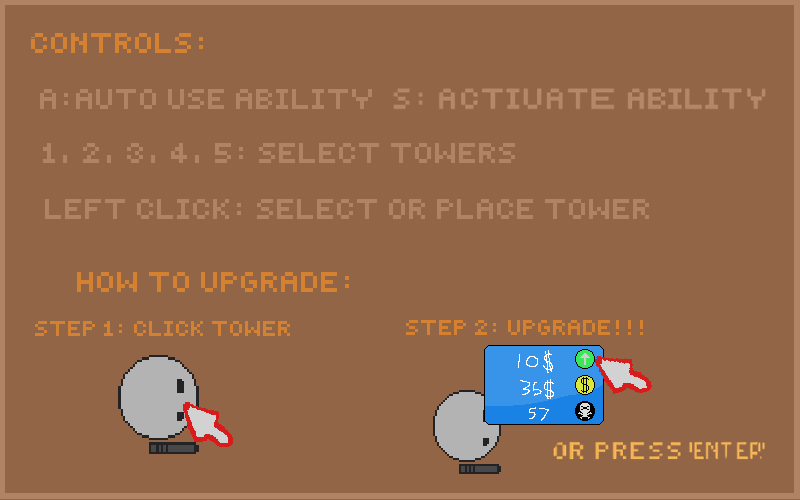
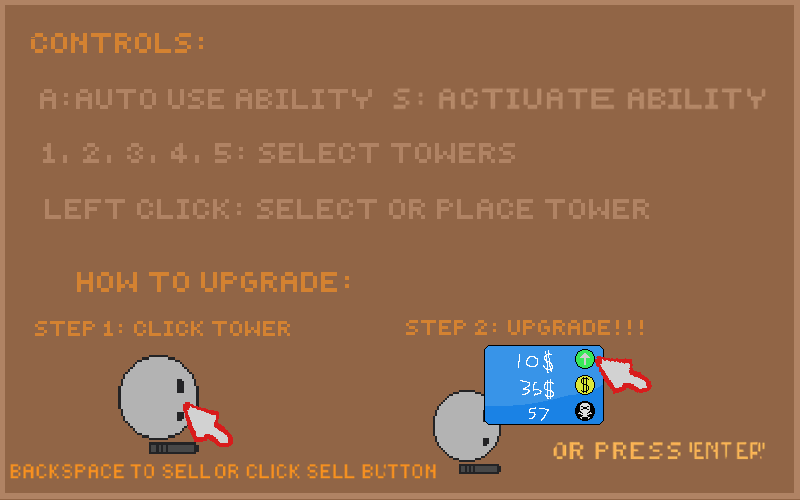
backspace tosell

Changed region(s): [[0.0, 0.93, 0.5625, 0.96]]

diff --git a/GameWorld.java b/GameWorld.java
@@ -39,6 +39,7 @@ public class GameWorld extends World {
     private boolean helpButtonPreviouslyPressed = false;
     
     private boolean enterPressedLastFrame = false;
+    private boolean backspacePressedLastFrame = false;
 
     // Wave/Money Variables
     private boolean autoNextWave = false;
@@ -651,12 +652,22 @@ public class GameWorld extends World {
 
     private void handleTowerClickUpgrade() {
         MouseInfo mi = Greenfoot.getMouseInfo();
+    
         boolean enterDown = Greenfoot.isKeyDown("enter");
+        boolean backspaceDown = Greenfoot.isKeyDown("backspace");
+    
         // --- Handle Enter key press to trigger upgrade ---
         if (enterDown && !enterPressedLastFrame && currentMenu != null) {
-            currentMenu.handleClick(0, 0); // Pass dummy coords
+            currentMenu.handleClick(0, 0); // Dummy coords to trigger upgrade
         }
         enterPressedLastFrame = enterDown;
+    
+        // --- Handle Backspace key press to trigger sell ---
+        if (backspaceDown && !backspacePressedLastFrame && currentMenu != null) {
+            currentMenu.handleClick(0, 999); // Dummy Y to trigger sell logic
+        }
+        backspacePressedLastFrame = backspaceDown;
+    
         // --- Handle mouse click upgrades ---
         if (towerPreview == null && Greenfoot.mouseClicked(null) && !towerPlacedThisClick) {
             if (mi != null) {

diff --git a/UpgradeMenu.java b/UpgradeMenu.java
@@ -96,7 +96,7 @@ public class UpgradeMenu extends UI {
             } else {
                 
             }
-        } else {
+        } else if (localY >= 30 || Greenfoot.isKeyDown("d")) {
             tower.sell();
             world.clearUpgradeMenu();
             return;
